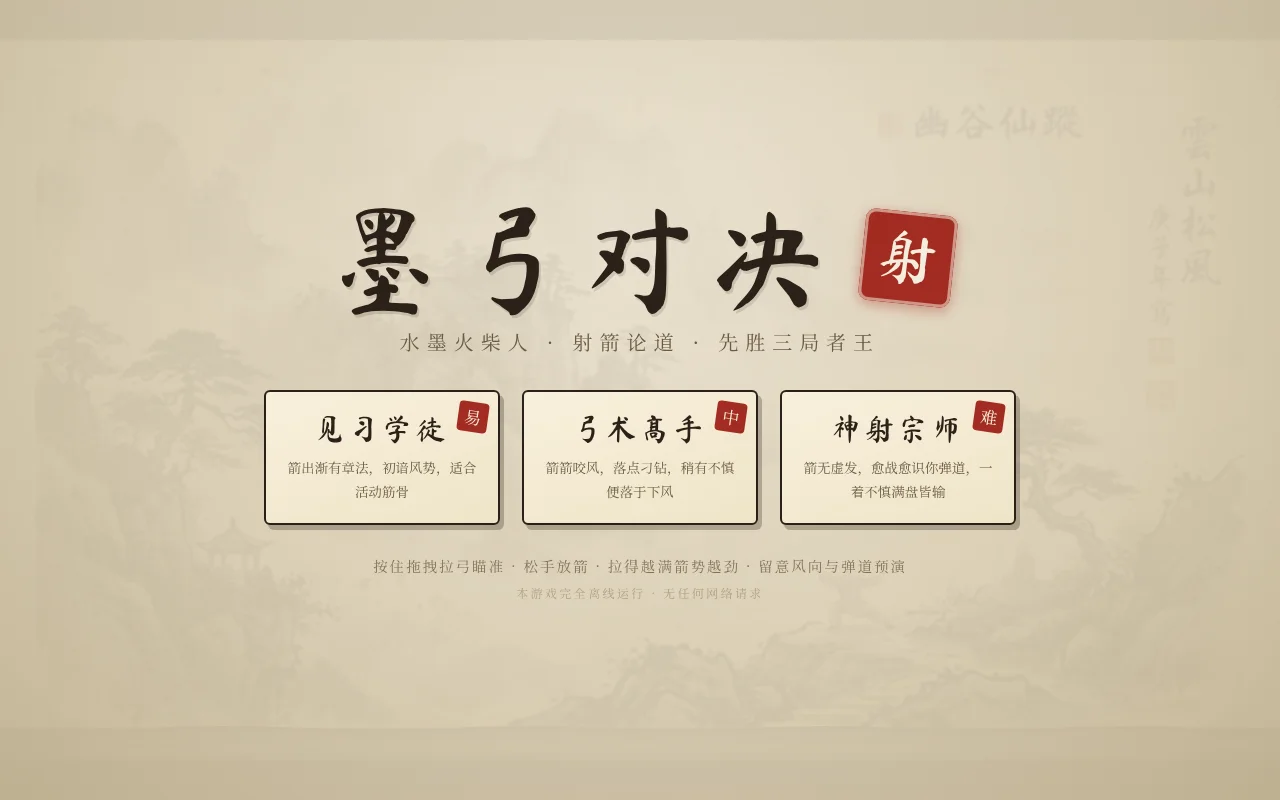
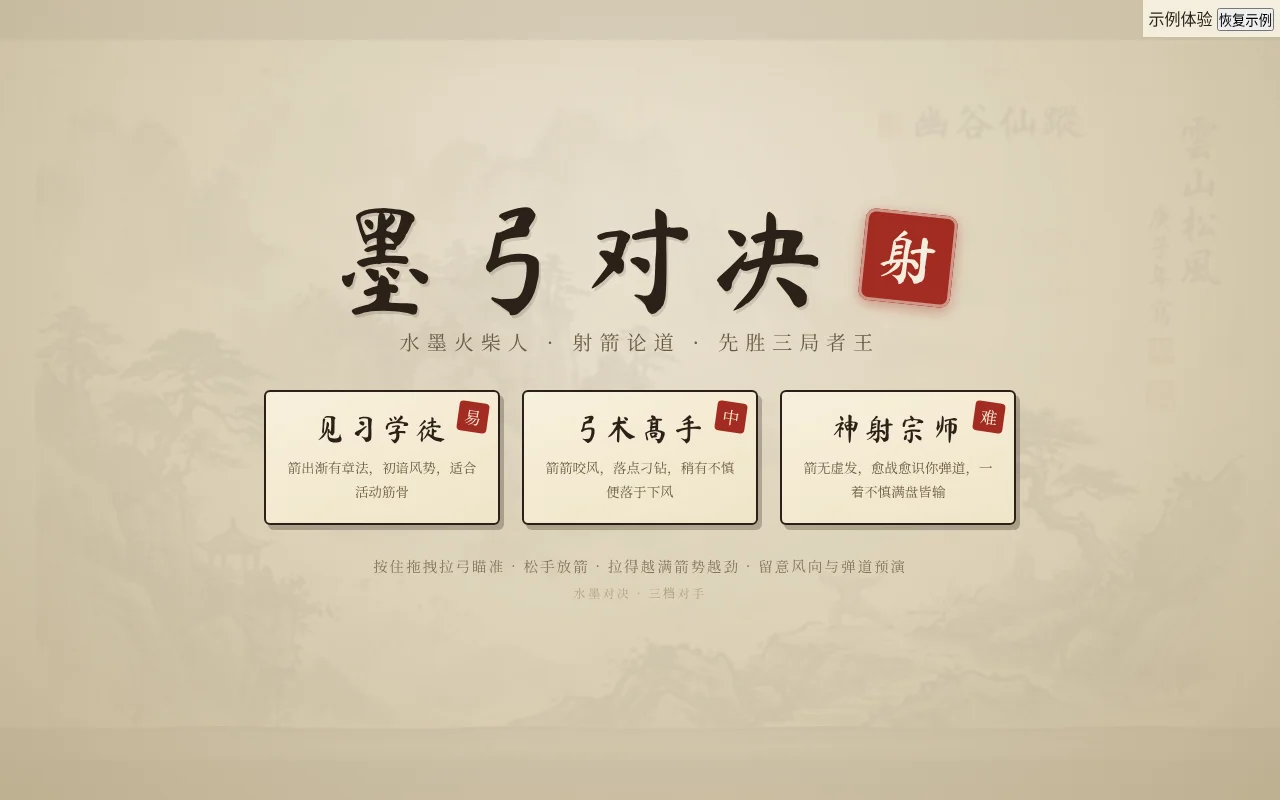
Upgrade ink archery template storage

Changed region(s): [[0.875, 0.0, 1.0, 0.0625], [0.5625, 0.7188, 0.5938, 0.75]]

diff --git a/729a9f5bab83d4fb732c65e0/src/game.js b/729a9f5bab83d4fb732c65e0/src/game.js
@@ -1,7 +1,7 @@
 export function run(initialMuted, saveMuted, loaded) {
 document.title = "墨弓对决 · 水墨火柴人射箭";
 const style = document.createElement("style"); style.textContent = "\n@font-face{font-family:'Ma Shan Zheng';font-style:normal;font-weight:400;font-display:swap;src:url(__FONT_00__) format('woff2');unicode-range:U+8c19;}\n@font-face{font-family:'Ma Shan Zheng';font-style:normal;font-weight:400;font-display:swap;src:url(__FONT_01__) format('woff2');unicode-range:U+5533;}\n@font-face{font-family:'Ma Shan Zheng';font-style:normal;font-weight:400;font-display:swap;src:url(__FONT_02__) format('woff2');unicode-range:U+4fa5;}\n@font-face{font-family:'Ma Shan Zheng';font-style:normal;font-weight:400;font-display:swap;src:url(__FONT_03__) format('woff2');unicode-range:U+5201;}\n@font-face{font-family:'Ma Shan Zheng';font-style:normal;font-weight:400;font-display:swap;src:url(__FONT_04__) format('woff2');unicode-range:U+5d16, U+62fd, U+7784;}\n@font-face{font-family:'Ma Shan Zheng';font-style:normal;font-weight:400;font-display:swap;src:url(__FONT_05__) format('woff2');unicode-range:U+5f13;}\n@font-face{font-family:'Ma Shan Zheng';font-style:normal;font-weight:400;font-display:swap;src:url(__FONT_06__) format('woff2');unicode-range:U+5e, U+803b;}\n@font-face{font-family:'Ma Shan Zheng';font-style:normal;font-weight:400;font-display:swap;src:url(__FONT_07__) format('woff2');unicode-range:U+b0, U+84c4, U+9e64;}\n@font-face{font-family:'Ma Shan Zheng';font-style:normal;font-weight:400;font-display:swap;src:url(__FONT_08__) format('woff2');unicode-range:U+54ac, U+67f4, U+7b4b, U+9022;}\n@font-face{font-family:'Ma Shan Zheng';font-style:normal;font-weight:400;font-display:swap;src:url(__FONT_09__) format('woff2');unicode-range:U+4e43, U+6108, U+7686, U+7bad, U+94ae, U+9601;}\n@font-face{font-family:'Ma Shan Zheng';font-style:normal;font-weight:400;font-display:swap;src:url(__FONT_10__) format('woff2');unicode-range:U+5f92, U+614e, U+7b79;}\n@font-face{font-family:'Ma Shan Zheng';font-style:normal;font-weight:400;font-display:swap;src:url(__FONT_11__) format('woff2');unicode-range:U+52b2, U+62d6, U+654c, U+8986, U+94bb;}\n@font-face{font-family:'Ma Shan Zheng';font-style:normal;font-weight:400;font-display:swap;src:url(__FONT_12__) format('woff2');unicode-range:U+4ea6, U+5077, U+58a8, U+6e10, U+756a;}\n@font-face{font-family:'Ma Shan Zheng';font-style:normal;font-weight:400;font-display:swap;src:url(__FONT_13__) format('woff2');unicode-range:U+23, U+3d, U+4fa0, U+501f, U+5175, U+5b97, U+7a0d, U+865a, U+8d25, U+9635, U+9694, U+9aa8;}\n@font-face{font-family:'Ma Shan Zheng';font-style:normal;font-weight:400;font-display:swap;src:url(__FONT_14__) format('woff2');unicode-range:U+26, U+3c, U+53f3, U+5c04, U+5e78, U+5f39, U+76d6, U+7a33, U+7ec3, U+80dc, U+811a, U+9759;}\n@font-face{font-family:'Ma Shan Zheng';font-style:normal;font-weight:400;font-display:swap;src:url(__FONT_15__) format('woff2');unicode-range:U+2026, U+4e03, U+4e5d, U+53e6, U+5c42, U+677e, U+8d1f, U+8f93, U+96ea;}\n@font-face{font-family:'Ma Shan Zheng';font-style:normal;font-weight:400;font-display:swap;src:url(__FONT_16__) format('woff2');unicode-range:U+25, U+4e1d, U+4e60, U+4f4f, U+4fbf, U+516b, U+516d, U+51b3, U+521d, U+52bf, U+5747, U+5883, U+5c3d, U+5c40, U+601d, U+62c9, U+6309, U+6b62, U+6ee1, U+6f14, U+76d8, U+79bb, U+7ec8, U+843d, U+8d8a, U+8f83, U+9002, U+968f, U+96be, U+9884;}\n@font-face{font-family:'Ma Shan Zheng';font-style:normal;font-weight:400;font-display:swap;src:url(__FONT_17__) format('woff2');unicode-range:U+2b, U+4e94, U+4fee, U+5148, U+518d, U+51c6, U+51e0, U+5341, U+5411, U+5e08, U+620f, U+6218, U+62e9, U+6362, U+6613, U+706b, U+738b, U+73a9, U+754c, U+7559, U+7740, U+795e, U+7edc, U+8bc6, U+952e, U+97f3;}\n@font-face{font-family:'Ma Shan Zheng';font-style:normal;font-weight:400;font-display:swap;src:url(__FONT_18__) format('woff2');unicode-range:U+4e, U+4e8b-4e8c, U+4efb, U+4f55, U+4f7f, U+51fb, U+53bb, U+53d6, U+56db, U+573a, U+58f0, U+5b8c, U+5df2, U+5e38, U+5f97, U+6216, U+653e, U+672f, U+6807, U+6837, U+6b64, U+6bd4, U+6c34, U+6c42, U+6d88, U+6e38, U+771f, U+7ae0, U+7b2c, U+89c1, U+8a00, U+8def, U+8f7d, U+8fd0, U+9009, U+91cd, U+91cf, U+98ce;}\n@font-face{font-family:'Ma Shan Zheng';font-style:normal;font-weight:400;font-display:swap;src:url(__FONT_19__) format('woff2');unicode-range:U+3e, U+5f, U+7c, U+4e09, U+4e0b, U+4e0d-4e0e, U+4e2a, U+4e8e, U+4eba, U+4f1a, U+4f60, U+5168, U+5173, U+51fa, U+5206, U+529b, U+52a8, U+53d1, U+53ef, U+5408, U+56de, U+597d, U+5b66, U+5ba2, U+5bb6, U+5bf9, U+5ea6, U+5f00, U+5f0f, U+5fc3, U+610f, U+624b, U+6280, U+65e0, U+65f6, U+672c, U+6765, U+6cd5, U+6d3b, U+7528, U+7ebf, U+8005, U+884c, U+8bba, U+8bf7, U+901a, U+9053, U+9762, U+9898, U+9ad8;}\n@font-face{font-family:'Ma Shan Zheng';font-style:normal;font-weight:400;font-display:swap;src:url(__FONT_20__) format('woff2');unicode-range:U+20-22, U+27-2a, U+2c-3b, U+3f, U+41-4d, U+4f-50, U+52-5b, U+5d, U+61-7b, U+7d, U+b7, U+2014, U+3001-3002, U+4e00, U+4e2d, U+6709, U+70b9, U+7684, U+7f51, U+ff0c, U+ff1a;}\n@font-face{font-family:'Ma Shan Zheng';font-style:normal;font-weight:400;font-display:swap;src:url(__FONT_21__) format('woff2');unicode-range:U+a, U+20-23, U+25-3f, U+41-50, U+52-5b, U+5d-5f, U+61-7d, U+b0, U+b7, U+2014, U+2026;}\n@font-face{font-family:'Noto Serif SC';font-style:normal;font-weight:400;font-display:swap;src:url(__FONT_22__) format('woff2');unicode-range:U+8c19;}\n@font-face{font-family:'Noto Serif SC';font-style:normal;font-weight:400;font-display:swap;src:url(__FONT_23__) format('woff2');unicode-range:U+5533;}\n@font-face{font-family:'Noto Serif SC';font-style:normal;font-weight:400;font-display:swap;src:url(__FONT_24__) format('woff2');unicode-range:U+4fa5;}\n@font-face{font-family:'Noto Serif SC';font-style:normal;font-weight:400;font-display:swap;src:url(__FONT_25__) format('woff2');unicode-range:U+5201;}\n@font-face{font-family:'Noto Serif SC';font-style:normal;font-weight:400;font-display:swap;src:url(__FONT_26__) format('woff2');unicode-range:U+5d16, U+62fd, U+7784;}\n@font-face{font-family:'Noto Serif SC';font-style:normal;font-weight:400;font-display:swap;src:url(__FONT_27__) format('woff2');unicode-range:U+5f13;}\n@font-face{font-family:'Noto Serif SC';font-style:normal;font-weight:400;font-display:swap;src:url(__FONT_28__) format('woff2');unicode-range:U+5e, U+803b;}\n@font-face{font-family:'Noto Serif SC';font-style:normal;font-weight:400;font-display:swap;src:url(__FONT_29__) format('woff2');unicode-range:U+b0, U+84c4, U+9e64;}\n@font-face{font-family:'Noto Serif SC';font-style:normal;font-weight:400;font-display:swap;src:url(__FONT_30__) format('woff2');unicode-range:U+54ac, U+67f4, U+7b4b, U+9022;}\n@font-face{font-family:'Noto Serif SC';font-style:normal;font-weight:400;font-display:swap;src:url(__FONT_31__) format('woff2');unicode-range:U+4e43, U+6108, U+7686, U+7bad, U+94ae, U+9601;}\n@font-face{font-family:'Noto Serif SC';font-style:normal;font-weight:400;font-display:swap;src:url(__FONT_32__) format('woff2');unicode-range:U+5f92, U+614e, U+7b79;}\n@font-face{font-family:'Noto Serif SC';font-style:normal;font-weight:400;font-display:swap;src:url(__FONT_33__) format('woff2');unicode-range:U+52b2, U+62d6, U+654c, U+8986, U+94bb;}\n@font-face{font-family:'Noto Serif SC';font-style:normal;font-weight:400;font-display:swap;src:url(__FONT_34__) format('woff2');unicode-range:U+4ea6, U+5077, U+58a8, U+6e10, U+756a;}\n@font-face{font-family:'Noto Serif SC';font-style:normal;font-weight:400;font-display:swap;src:url(__FONT_35__) format('woff2');unicode-range:U+23, U+3d, U+4fa0, U+501f, U+5175, U+5b97, U+7a0d, U+865a, U+8d25, U+9635, U+9694, U+9aa8;}\n@font-face{font-family:'Noto Serif SC';font-style:normal;font-weight:400;font-display:swap;src:url(__FONT_36__) format('woff2');unicode-range:U+26, U+3c, U+53f3, U+5c04, U+5e78, U+5f39, U+76d6, U+7a33, U+7ec3, U+80dc, U+811a, U+9759;}\n@font-face{font-family:'Noto Serif SC';font-style:normal;font-weight:400;font-display:swap;src:url(__FONT_37__) format('woff2');unicode-range:U+2026, U+4e03, U+4e5d, U+53e6, U+5c42, U+677e, U+8d1f, U+8f93, U+96ea;}\n@font-face{font-family:'Noto Serif SC';font-style:normal;font-weight:400;font-display:swap;src:url(__FONT_38__) format('woff2');unicode-range:U+25, U+4e1d, U+4e60, U+4f4f, U+4fbf, U+516b, U+516d, U+51b3, U+521d, U+52bf, U+5747, U+5883, U+5c3d, U+5c40, U+601d, U+62c9, U+6309, U+6b62, U+6ee1, U+6f14, U+76d8, U+79bb, U+7ec8, U+843d, U+8d8a, U+8f83, U+9002, U+968f, U+96be, U+9884;}\n@font-face{font-family:'Noto Serif SC';font-style:normal;font-weight:400;font-display:swap;src:url(__FONT_39__) format('woff2');unicode-range:U+2b, U+4e94, U+4fee, U+5148, U+518d, U+51c6, U+51e0, U+5341, U+5411, U+5e08, U+620f, U+6218, U+62e9, U+6362, U+6613, U+706b, U+738b, U+73a9, U+754c, U+7559, U+7740, U+795e, U+7edc, U+8bc6, U+952e, U+97f3;}\n@font-face{font-family:'Noto Serif SC';font-style:normal;font-weight:400;font-display:swap;src:url(__FONT_40__) format('woff2');unicode-range:U+4e, U+4e8b-4e8c, U+4efb, U+4f55, U+4f7f, U+51fb, U+53bb, U+53d6, U+56db, U+573a, U+58f0, U+5b8c, U+5df2, U+5e38, U+5f97, U+6216, U+653e, U+672f, U+6807, U+6837, U+6b64, U+6bd4, U+6c34, U+6c42, U+6d88, U+6e38, U+771f, U+7ae0, U+7b2c, U+89c1, U+8a00, U+8def, U+8f7d, U+8fd0, U+9009, U+91cd, U+91cf, U+98ce;}\n@font-face{font-family:'Noto Serif SC';font-style:normal;font-weight:400;font-display:swap;src:url(__FONT_41__) format('woff2');unicode-range:U+3e, U+5f, U+7c, U+4e09, U+4e0b, U+4e0d-4e0e, U+4e2a, U+4e8e, U+4eba, U+4f1a, U+4f60, U+5168, U+5173, U+51fa, U+5206, U+529b, U+52a8, U+53d1, U+53ef, U+5408, U+56de, U+597d, U+5b66, U+5ba2, U+5bb6, U+5bf9, U+5ea6, U+5f00, U+5f0f, U+5fc3, U+610f, U+624b, U+6280, U+65e0, U+65f6, U+672c, U+6765, U+6cd5, U+6d3b, U+7528, U+7ebf, U+8005, U+884c, U+8bba, U+8bf7, U+901a, U+9053, U+9762, U+9898, U+9ad8;}\n@font-face{font-family:'Noto Serif SC';font-style:normal;font-weight:400;font-display:swap;src:url(__FONT_42__) format('woff2');unicode-range:U+20-22, U+27-2a, U+2c-3b, U+3f, U+41-4d, U+4f-50, U+52-5b, U+5d, U+61-7b, U+7d, U+b7, U+2014, U+3001-3002, U+4e00, U+4e2d, U+6709, U+70b9, U+7684, U+7f51, U+ff0c, U+ff1a;}\n@font-face{font-family:'Noto Serif SC';font-style:normal;font-weight:400;font-display:swap;src:url(__FONT_43__) format('woff2');unicode-range:U+a, U+20-23, U+25-3f, U+41-50, U+52-5b, U+5d-5f, U+61-7d, U+b0, U+b7, U+2014, U+2026;}\n@font-face{font-family:'Noto Serif SC';font-style:normal;font-weight:400;font-display:swap;src:url(__FONT_44__) format('woff2');unicode-range:U+8c19;}\n@font-face{font-family:'Noto Serif SC';font-style:normal;font-weight:400;font-display:swap;src:url(__FONT_45__) format('woff2');unicode-range:U+5533;}\n@font-face{font-family:'Noto Serif SC';font-style:normal;font-weight:400;font-display:swap;src:url(__FONT_46__) format('woff2');unicode-range:U+4fa5;}\n@font-face{font-family:'Noto Serif SC';font-style:normal;font-weight:400;font-display:swap;src:url(__FONT_47__) format('woff2');unicode-range:U+5201;}\n@font-face{font-family:'Noto Serif SC';font-style:normal;font-weight:400;font-display:swap;src:url(__FONT_48__) format('woff2');unicode-range:U+5d16, U+62fd, U+7784;}\n@font-face{font-family:'Noto Serif SC';font-style:normal;font-weight:400;font-display:swap;src:url(__FONT_49__) format('woff2');unicode-range:U+5f13;}\n@font-face{font-family:'Noto Serif SC';font-style:normal;font-weight:400;font-display:swap;src:url(__FONT_50__) format('woff2');unicode-range:U+5e, U+803b;}\n@font-face{font-family:'Noto Serif SC';font-style:normal;font-weight:400;font-display:swap;src:url(__FONT_51__) format('woff2');unicode-range:U+b0, U+84c4, U+9e64;}\n@font-face{font-family:'Noto Serif SC';font-style:normal;font-weight:400;font-display:swap;src:url(__FONT_52__) format('woff2');unicode-range:U+54ac, U+67f4, U+7b4b, U+9022;}\n@font-face{font-family:'Noto Serif SC';font-style:normal;font-weight:400;font-display:swap;src:url(__FONT_53__) format('woff2');unicode-range:U+4e43, U+6108, U+7686, U+7bad, U+94ae, U+9601;}\n@font-face{font-family:'Noto Serif SC';font-style:normal;font-weight:400;font-display:swap;src:url(__FONT_54__) format('woff2');unicode-range:U+5f92, U+614e, U+7b79;}\n@font-face{font-family:'Noto Serif SC';font-style:normal;font-weight:400;font-display:swap;src:url(__FONT_55__) format('woff2');unicode-range:U+52b2, U+62d6, U+654c, U+8986, U+94bb;}\n@font-face{font-family:'Noto Serif SC';font-style:normal;font-weight:400;font-display:swap;src:url(__FONT_56__) format('woff2');unicode-range:U+4ea6, U+5077, U+58a8, U+6e10, U+756a;}\n@font-face{font-family:'Noto Serif SC';font-style:normal;font-weight:400;font-display:swap;src:url(__FONT_57__) format('woff2');unicode-range:U+23, U+3d, U+4fa0, U+501f, U+5175, U+5b97, U+7a0d, U+865a, U+8d25, U+9635, U+9694, U+9aa8;}\n@font-face{font-family:'Noto Serif SC';font-style:normal;font-weight:400;font-display:swap;src:url(__FONT_58__) format('woff2');unicode-range:U+26, U+3c, U+53f3, U+5c04, U+5e78, U+5f39, U+76d6, U+7a33, U+7ec3, U+80dc, U+811a, U+9759;}\n@font-face{font-family:'Noto Serif SC';font-style:normal;font-weight:400;font-display:swap;src:url(__FONT_59__) format('woff2');unicode-range:U+2026, U+4e03, U+4e5d, U+53e6, U+5c42, U+677e, U+8d1f, U+8f93, U+96ea;}\n@font-face{font-family:'Noto Serif SC';font-style:normal;font-weight:400;font-display:swap;src:url(__FONT_60__) format('woff2');unicode-range:U+25, U+4e1d, U+4e60, U+4f4f, U+4fbf, U+516b, U+516d, U+51b3, U+521d, U+52bf, U+5747, U+5883, U+5c3d, U+5c40, U+601d, U+62c9, U+6309, U+6b62, U+6ee1, U+6f14, U+76d8, U+79bb, U+7ec8, U+843d, U+8d8a, U+8f83, U+9002, U+968f, U+96be, U+9884;}\n@font-face{font-family:'Noto Serif SC';font-style:normal;font-weight:400;font-display:swap;src:url(__FONT_61__) format('woff2');unicode-range:U+2b, U+4e94, U+4fee, U+5148, U+518d, U+51c6, U+51e0, U+5341, U+5411, U+5e08, U+620f, U+6218, U+62e9, U+6362, U+6613, U+706b, U+738b, U+73a9, U+754c, U+7559, U+7740, U+795e, U+7edc, U+8bc6, U+952e, U+97f3;}\n@font-face{font-family:'Noto Serif SC';font-style:normal;font-weight:400;font-display:swap;src:url(__FONT_62__) format('woff2');unicode-range:U+4e, U+4e8b-4e8c, U+4efb, U+4f55, U+4f7f, U+51fb, U+53bb, U+53d6, U+56db, U+573a, U+58f0, U+5b8c, U+5df2, U+5e38, U+5f97, U+6216, U+653e, U+672f, U+6807, U+6837, U+6b64, U+6bd4, U+6c34, U+6c42, U+6d88, U+6e38, U+771f, U+7ae0, U+7b2c, U+89c1, U+8a00, U+8def, U+8f7d, U+8fd0, U+9009, U+91cd, U+91cf, U+98ce;}\n@font-face{font-family:'Noto Serif SC';font-style:normal;font-weight:400;font-display:swap;src:url(__FONT_63__) format('woff2');unicode-range:U+3e, U+5f, U+7c, U+4e09, U+4e0b, U+4e0d-4e0e, U+4e2a, U+4e8e, U+4eba, U+4f1a, U+4f60, U+5168, U+5173, U+51fa, U+5206, U+529b, U+52a8, U+53d1, U+53ef, U+5408, U+56de, U+597d, U+5b66, U+5ba2, U+5bb6, U+5bf9, U+5ea6, U+5f00, U+5f0f, U+5fc3, U+610f, U+624b, U+6280, U+65e0, U+65f6, U+672c, U+6765, U+6cd5, U+6d3b, U+7528, U+7ebf, U+8005, U+884c, U+8bba, U+8bf7, U+901a, U+9053, U+9762, U+9898, U+9ad8;}\n@font-face{font-family:'Noto Serif SC';font-style:normal;font-weight:400;font-display:swap;src:url(__FONT_64__) format('woff2');unicode-range:U+20-22, U+27-2a, U+2c-3b, U+3f, U+41-4d, U+4f-50, U+52-5b, U+5d, U+61-7b, U+7d, U+b7, U+2014, U+3001-3002, U+4e00, U+4e2d, U+6709, U+70b9, U+7684, U+7f51, U+ff0c, U+ff1a;}\n@font-face{font-family:'Noto Serif SC';font-style:normal;font-weight:400;font-display:swap;src:url(__FONT_65__) format('woff2');unicode-range:U+a, U+20-23, U+25-3f, U+41-50, U+52-5b, U+5d-5f, U+61-7d, U+b0, U+b7, U+2014, U+2026;}\n@font-face{font-family:'Noto Serif SC';font-style:normal;font-weight:400;font-display:swap;src:url(__FONT_66__) format('woff2');unicode-range:U+8c19;}\n@font-face{font-family:'Noto Serif SC';font-style:normal;font-weight:400;font-display:swap;src:url(__FONT_67__) format('woff2');unicode-range:U+5533;}\n@font-face{font-family:'Noto Serif SC';font-style:normal;font-weight:400;font-display:swap;src:url(__FONT_68__) format('woff2');unicode-range:U+4fa5;}\n@font-face{font-family:'Noto Serif SC';font-style:normal;font-weight:400;font-display:swap;src:url(__FONT_69__) format('woff2');unicode-range:U+5201;}\n@font-face{font-family:'Noto Serif SC';font-style:normal;font-weight:400;font-display:swap;src:url(__FONT_70__) format('woff2');unicode-range:U+5d16, U+62fd, U+7784;}\n@font-face{font-family:'Noto Serif SC';font-style:normal;font-weight:400;font-display:swap;src:url(__FONT_71__) format('woff2');unicode-range:U+5f13;}\n@font-face{font-family:'Noto Serif SC';font-style:normal;font-weight:400;font-display:swap;src:url(__FONT_72__) format('woff2');unicode-range:U+5e, U+803b;}\n@font-face{font-family:'Noto Serif SC';font-style:normal;font-weight:400;font-display:swap;src:url(__FONT_73__) format('woff2');unicode-range:U+b0, U+84c4, U+9e64;}\n@font-face{font-family:'Noto Serif SC';font-style:normal;font-weight:400;font-display:swap;src:url(__FONT_74__) format('woff2');unicode-range:U+54ac, U+67f4, U+7b4b, U+9022;}\n@font-face{font-family:'Noto Serif SC';font-style:normal;font-weight:400;font-display:swap;src:url(__FONT_75__) format('woff2');unicode-range:U+4e43, U+6108, U+7686, U+7bad, U+94ae, U+9601;}\n@font-face{font-family:'Noto Serif SC';font-style:normal;font-weight:400;font-display:swap;src:url(__FONT_76__) format('woff2');unicode-range:U+5f92, U+614e, U+7b79;}\n@font-face{font-family:'Noto Serif SC';font-style:normal;font-weight:400;font-display:swap;src:url(__FONT_77__) format('woff2');unicode-range:U+52b2, U+62d6, U+654c, U+8986, U+94bb;}\n@font-face{font-family:'Noto Serif SC';font-style:normal;font-weight:400;font-display:swap;src:url(__FONT_78__) format('woff2');unicode-range:U+4ea6, U+5077, U+58a8, U+6e10, U+756a;}\n@font-face{font-family:'Noto Serif SC';font-style:normal;font-weight:400;font-display:swap;src:url(__FONT_79__) format('woff2');unicode-range:U+23, U+3d, U+4fa0, U+501f, U+5175, U+5b97, U+7a0d, U+865a, U+8d25, U+9635, U+9694, U+9aa8;}\n@font-face{font-family:'Noto Serif SC';font-style:normal;font-weight:400;font-display:swap;src:url(__FONT_80__) format('woff2');unicode-range:U+26, U+3c, U+53f3, U+5c04, U+5e78, U+5f39, U+76d6, U+7a33, U+7ec3, U+80dc, U+811a, U+9759;}\n@font-face{font-family:'Noto Serif SC';font-style:normal;font-weight:400;font-display:swap;src:url(__FONT_81__) format('woff2');unicode-range:U+2026, U+4e03, U+4e5d, U+53e6, U+5c42, U+677e, U+8d1f, U+8f93, U+96ea;}\n@font-face{font-family:'Noto Serif SC';font-style:normal;font-weight:400;font-display:swap;src:url(__FONT_82__) format('woff2');unicode-range:U+25, U+4e1d, U+4e60, U+4f4f, U+4fbf, U+516b, U+516d, U+51b3, U+521d, U+52bf, U+5747, U+5883, U+5c3d, U+5c40, U+601d, U+62c9, U+6309, U+6b62, U+6ee1, U+6f14, U+76d8, U+79bb, U+7ec8, U+843d, U+8d8a, U+8f83, U+9002, U+968f, U+96be, U+9884;}\n@font-face{font-family:'Noto Serif SC';font-style:normal;font-weight:400;font-display:swap;src:url(__FONT_83__) format('woff2');unicode-range:U+2b, U+4e94, U+4fee, U+5148, U+518d, U+51c6, U+51e0, U+5341, U+5411, U+5e08, U+620f, U+6218, U+62e9, U+6362, U+6613, U+706b, U+738b, U+73a9, U+754c, U+7559, U+7740, U+795e, U+7edc, U+8bc6, U+952e, U+97f3;}\n@font-face{font-family:'Noto Serif SC';font-style:normal;font-weight:400;font-display:swap;src:url(__FONT_84__) format('woff2');unicode-range:U+4e, U+4e8b-4e8c, U+4efb, U+4f55, U+4f7f, U+51fb, U+53bb, U+53d6, U+56db, U+573a, U+58f0, U+5b8c, U+5df2, U+5e38, U+5f97, U+6216, U+653e, U+672f, U+6807, U+6837, U+6b64, U+6bd4, U+6c34, U+6c42, U+6d88, U+6e38, U+771f, U+7ae0, U+7b2c, U+89c1, U+8a00, U+8def, U+8f7d, U+8fd0, U+9009, U+91cd, U+91cf, U+98ce;}\n@font-face{font-family:'Noto Serif SC';font-style:normal;font-weight:400;font-display:swap;src:url(__FONT_85__) format('woff2');unicode-range:U+3e, U+5f, U+7c, U+4e09, U+4e0b, U+4e0d-4e0e, U+4e2a, U+4e8e, U+4eba, U+4f1a, U+4f60, U+5168, U+5173, U+51fa, U+5206, U+529b, U+52a8, U+53d1, U+53ef, U+5408, U+56de, U+597d, U+5b66, U+5ba2, U+5bb6, U+5bf9, U+5ea6, U+5f00, U+5f0f, U+5fc3, U+610f, U+624b, U+6280, U+65e0, U+65f6, U+672c, U+6765, U+6cd5, U+6d3b, U+7528, U+7ebf, U+8005, U+884c, U+8bba, U+8bf7, U+901a, U+9053, U+9762, U+9898, U+9ad8;}\n@font-face{font-family:'Noto Serif SC';font-style:normal;font-weight:400;font-display:swap;src:url(__FONT_86__) format('woff2');unicode-range:U+20-22, U+27-2a, U+2c-3b, U+3f, U+41-4d, U+4f-50, U+52-5b, U+5d, U+61-7b, U+7d, U+b7, U+2014, U+3001-3002, U+4e00, U+4e2d, U+6709, U+70b9, U+7684, U+7f51, U+ff0c, U+ff1a;}\n@font-face{font-family:'Noto Serif SC';font-style:normal;font-weight:400;font-display:swap;src:url(__FONT_87__) format('woff2');unicode-range:U+a, U+20-23, U+25-3f, U+41-50, U+52-5b, U+5d-5f, U+61-7d, U+b0, U+b7, U+2014, U+2026;}\n/* ============ 墨弓对决 · 全局样式 ============ */\n* { margin: 0; padding: 0; box-sizing: border-box; }\n\nhtml, body {\n  width: 100%; height: 100%;\n  background: #2b2118;\n  overflow: hidden;\n  font-family: 'Noto Serif SC', serif;\n  -webkit-user-select: none; user-select: none;\n  touch-action: none;\n}\n\n#stage {\n  position: fixed; inset: 0;\n  display: flex; align-items: center; justify-content: center;\n  background: radial-gradient(ellipse at 50% 40%, #3a2e22 0%, #221a12 100%);\n}\n\n#game {\n  display: block;\n  background: #e9e1cf;\n  box-shadow: 0 0 60px rgba(0,0,0,.55);\n  cursor: crosshair;\n  touch-action: none;\n}\n\n/* ============ 覆盖层通用 ============ */\n.overlay {\n  position: absolute; inset: 0;\n  display: flex; align-items: center; justify-content: center;\n  background:\n    radial-gradient(ellipse at 50% 30%, rgba(233,225,207,.92) 0%, rgba(217,205,178,.94) 60%, rgba(196,182,150,.96) 100%);\n  z-index: 10;\n  transition: opacity .45s ease;\n}\n.overlay.hidden { opacity: 0; pointer-events: none; }\n\n.title-inner { text-align: center; max-width: 900px; padding: 20px; }\n\n.title-row {\n  display: flex; align-items: center; justify-content: center; gap: 26px;\n}\n\n.game-title {\n  font-family: 'Ma Shan Zheng', 'Noto Serif SC', serif;\n  font-size: clamp(64px, 11vw, 118px);\n  font-weight: 400;\n  color: #2b2118;\n  letter-spacing: .08em;\n  line-height: 1;\n  text-shadow: 2px 3px 0 rgba(43,33,24,.14);\n}\n\n.seal-stamp {\n  width: clamp(64px, 8vw, 92px); height: clamp(64px, 8vw, 92px);\n  background: #a32c22;\n  color: #f4eedd;\n  font-family: 'Ma Shan Zheng', serif;\n  font-size: clamp(40px, 5vw, 60px);\n  display: flex; align-items: center; justify-content: center;\n  border-radius: 10px;\n  transform: rotate(6deg);\n  box-shadow: 0 4px 14px rgba(163,44,34,.4), inset 0 0 0 3px rgba(244,238,221,.55), inset 0 0 0 6px #a32c22;\n  padding-bottom: 4px;\n}\n\n.subtitle {\n  margin-top: 10px;\n  font-size: clamp(15px, 2vw, 20px);\n  letter-spacing: .35em;\n  color: #6b5b43;\n}\n\n/* ============ 难度选择 ============ */\n.diff-list {\n  margin: 34px auto 0;\n  display: flex; gap: 22px; justify-content: center; flex-wrap: wrap;\n}\n\n.diff-card {\n  width: 236px;\n  padding: 22px 18px 20px;\n  background: linear-gradient(160deg, #f8f0dc 0%, #efe4c8 100%);\n  border: 2px solid #2b2118;\n  border-radius: 6px;\n  cursor: pointer;\n  font-family: 'Noto Serif SC', serif;\n  text-align: center;\n  position: relative;\n  box-shadow: 4px 5px 0 rgba(43,33,24,.28);\n  transition: transform .16s ease, box-shadow .16s ease;\n}\n.diff-card:hover {\n  transform: translateY(-5px) rotate(-.4deg);\n  box-shadow: 6px 9px 0 rgba(43,33,24,.32);\n}\n.diff-card:active { transform: translateY(-1px); }\n\n.diff-name {\n  display: block;\n  font-family: 'Ma Shan Zheng', serif;\n  font-size: 30px;\n  color: #2b2118;\n  letter-spacing: .12em;\n}\n.diff-tag {\n  position: absolute; top: 10px; right: 10px;\n  width: 30px; height: 30px;\n  background: #a32c22; color: #f4eedd;\n  font-size: 17px; line-height: 30px;\n  border-radius: 4px;\n  transform: rotate(8deg);\n}\n.diff-desc {\n  display: block;\n  margin-top: 12px;\n  font-size: 13.5px;\n  line-height: 1.75;\n  color: #6b5b43;\n}\n\n.rules-line {\n  margin-top: 30px;\n  font-size: 14.5px;\n  letter-spacing: .14em;\n  color: #85745a;\n}\n.offline-line {\n  margin-top: 8px;\n  font-size: 12px;\n  letter-spacing: .2em;\n  color: #b3a181;\n}\n\n/* ============ 终局界面 ============ */\n.match-result {\n  font-family: 'Ma Shan Zheng', serif;\n  font-size: clamp(56px, 9vw, 96px);\n  color: #2b2118;\n  letter-spacing: .1em;\n}\n.match-result .win { color: #a32c22; }\n.match-score {\n  margin-top: 6px;\n  font-size: clamp(30px, 4.5vw, 44px);\n  letter-spacing: .3em;\n  color: #85745a;\n}\n.match-comment {\n  margin-top: 14px;\n  font-size: 16px;\n  color: #6b5b43;\n  letter-spacing: .08em;\n}\n.match-buttons { margin-top: 40px; display: flex; gap: 24px; justify-content: center; }\n\n.big-btn {\n  font-family: 'Ma Shan Zheng', serif;\n  font-size: 26px;\n  letter-spacing: .15em;\n  padding: 12px 40px 14px;\n  color: #f4eedd;\n  background: #a32c22;\n  border: none; border-radius: 6px;\n  cursor: pointer;\n  box-shadow: 4px 5px 0 rgba(43,33,24,.3);\n  transition: transform .15s ease, box-shadow .15s ease;\n}\n.big-btn:hover { transform: translateY(-3px); box-shadow: 5px 8px 0 rgba(43,33,24,.34); }\n.big-btn.ghost {\n  background: transparent; color: #2b2118;\n  border: 2px solid #2b2118; box-shadow: 4px 5px 0 rgba(43,33,24,.18);\n}\n\n/* ============ 静音按钮 ============ */\n#mute-btn {\n  position: absolute; bottom: 14px; right: 16px; z-index: 20;\n  width: 40px; height: 40px;\n  background: rgba(43,33,24,.82);\n  color: #e9e1cf;\n  border: 1px solid rgba(233,225,207,.4);\n  border-radius: 50%;\n  font-family: 'Ma Shan Zheng', serif;\n  font-size: 19px;\n  cursor: pointer;\n  display: none;\n}\n#mute-btn:hover { background: rgba(163,44,34,.9); }\n\n"; for(let i=0;i<88;i++) style.textContent=style.textContent.replace(`__FONT_${String(i).padStart(2,'0')}__`,loaded[i]); document.head.append(style);
-document.body.innerHTML = "\n    <div id=\"stage\">\n      <canvas id=\"game\" width=\"1280\" height=\"720\"></canvas>\n\n      <!-- 标题界面 -->\n      <div id=\"title-screen\" class=\"overlay\">\n        <div class=\"title-inner\">\n          <div class=\"title-row\">\n            <h1 class=\"game-title\">墨弓对决</h1>\n            <div class=\"seal-stamp\">射</div>\n          </div>\n          <p class=\"subtitle\">水墨火柴人 · 射箭论道 · 先胜三局者王</p>\n          <div class=\"diff-list\">\n            <button class=\"diff-card\" data-diff=\"easy\">\n              <span class=\"diff-name\">见习学徒</span>\n              <span class=\"diff-tag\">易</span>\n              <span class=\"diff-desc\">箭出渐有章法，初谙风势，适合活动筋骨</span>\n            </button>\n            <button class=\"diff-card\" data-diff=\"normal\">\n              <span class=\"diff-name\">弓术高手</span>\n              <span class=\"diff-tag\">中</span>\n              <span class=\"diff-desc\">箭箭咬风，落点刁钻，稍有不慎便落于下风</span>\n            </button>\n            <button class=\"diff-card\" data-diff=\"hard\">\n              <span class=\"diff-name\">神射宗师</span>\n              <span class=\"diff-tag\">难</span>\n              <span class=\"diff-desc\">箭无虚发，愈战愈识你弹道，一着不慎满盘皆输</span>\n            </button>\n          </div>\n          <p class=\"rules-line\">按住拖拽拉弓瞄准 · 松手放箭 · 拉得越满箭势越劲 · 留意风向与弹道预演</p>\n          <p class=\"offline-line\">本游戏完全离线运行 · 无任何网络请求</p>\n        </div>\n      </div>\n\n      <!-- 终局界面 -->\n      <div id=\"match-screen\" class=\"overlay hidden\">\n        <div class=\"title-inner\">\n          <h1 class=\"match-result\" id=\"match-result-text\">胜负已分</h1>\n          <p class=\"match-score\" id=\"match-score-text\">3 : 1</p>\n          <p class=\"match-comment\" id=\"match-comment\"></p>\n          <div class=\"match-buttons\">\n            <button id=\"btn-rematch\" class=\"big-btn\">再战此境</button>\n            <button id=\"btn-back\" class=\"big-btn ghost\">另择对手</button>\n          </div>\n        </div>\n      </div>\n\n      <button id=\"mute-btn\" title=\"声音开关\">音</button>\n    </div>\n\n    ";
+document.body.innerHTML = "\n    <div id=\"stage\">\n      <canvas id=\"game\" width=\"1280\" height=\"720\"></canvas>\n\n      <!-- 标题界面 -->\n      <div id=\"title-screen\" class=\"overlay\">\n        <div class=\"title-inner\">\n          <div class=\"title-row\">\n            <h1 class=\"game-title\">墨弓对决</h1>\n            <div class=\"seal-stamp\">射</div>\n          </div>\n          <p class=\"subtitle\">水墨火柴人 · 射箭论道 · 先胜三局者王</p>\n          <div class=\"diff-list\">\n            <button class=\"diff-card\" data-diff=\"easy\">\n              <span class=\"diff-name\">见习学徒</span>\n              <span class=\"diff-tag\">易</span>\n              <span class=\"diff-desc\">箭出渐有章法，初谙风势，适合活动筋骨</span>\n            </button>\n            <button class=\"diff-card\" data-diff=\"normal\">\n              <span class=\"diff-name\">弓术高手</span>\n              <span class=\"diff-tag\">中</span>\n              <span class=\"diff-desc\">箭箭咬风，落点刁钻，稍有不慎便落于下风</span>\n            </button>\n            <button class=\"diff-card\" data-diff=\"hard\">\n              <span class=\"diff-name\">神射宗师</span>\n              <span class=\"diff-tag\">难</span>\n              <span class=\"diff-desc\">箭无虚发，愈战愈识你弹道，一着不慎满盘皆输</span>\n            </button>\n          </div>\n          <p class=\"rules-line\">按住拖拽拉弓瞄准 · 松手放箭 · 拉得越满箭势越劲 · 留意风向与弹道预演</p>\n          <p class=\"offline-line\">水墨对决 · 三档对手</p>\n        </div>\n      </div>\n\n      <!-- 终局界面 -->\n      <div id=\"match-screen\" class=\"overlay hidden\">\n        <div class=\"title-inner\">\n          <h1 class=\"match-result\" id=\"match-result-text\">胜负已分</h1>\n          <p class=\"match-score\" id=\"match-score-text\">3 : 1</p>\n          <p class=\"match-comment\" id=\"match-comment\"></p>\n          <div class=\"match-buttons\">\n            <button id=\"btn-rematch\" class=\"big-btn\">再战此境</button>\n            <button id=\"btn-back\" class=\"big-btn ghost\">另择对手</button>\n          </div>\n        </div>\n      </div>\n\n      <button id=\"mute-btn\" title=\"声音开关\">音</button>\n    </div>\n\n    ";
 
 (function(){
 "use strict";

diff --git a/729a9f5bab83d4fb732c65e0/showcase/preview.html b/729a9f5bab83d4fb732c65e0/showcase/preview.html
@@ -4,7 +4,7 @@
     <meta charset="UTF-8" />
     <meta name="viewport" content="width=device-width, initial-scale=1.0, maximum-scale=1.0, user-scalable=no" />
     <title>墨弓对决 · 水墨火柴人射箭</title>
-    <meta name="description" content="水墨风火柴人射箭对决：拉弓蓄力、弹道预演、风声鹤唳，与三重境界的AI弓手隔崖对射。完全离线可玩。" />
+    <meta name="description" content="水墨风火柴人射箭对决：拉弓蓄力、弹道预演、风声鹤唳，与三重境界的AI弓手隔崖对射。体验水墨射箭对决。" />
     <meta name="theme-color" content="#a32c22" />
[1 lines of base64/hex data omitted]
     <style>
@@ -317,7 +317,7 @@ html, body {
             </button>
           </div>
           <p class="rules-line">按住拖拽拉弓瞄准 · 松手放箭 · 拉得越满箭势越劲 · 留意风向与弹道预演</p>
-          <p class="offline-line">本游戏完全离线运行 · 无任何网络请求</p>
+          <p class="offline-line">水墨对决 · 三档对手</p>
         </div>
       </div>
 
@@ -343,7 +343,7 @@ html, body {
 
 /* =====================================================================
  *  墨弓对决 · 水墨火柴人射箭
- *  纯原生 Canvas 实现，零依赖，完全离线可玩。
+ *  纯原生 Canvas 实现，零依赖，体验水墨射箭对决。
  *  水墨山水背景与书法字体。
  * ===================================================================== */
 'use strict';
